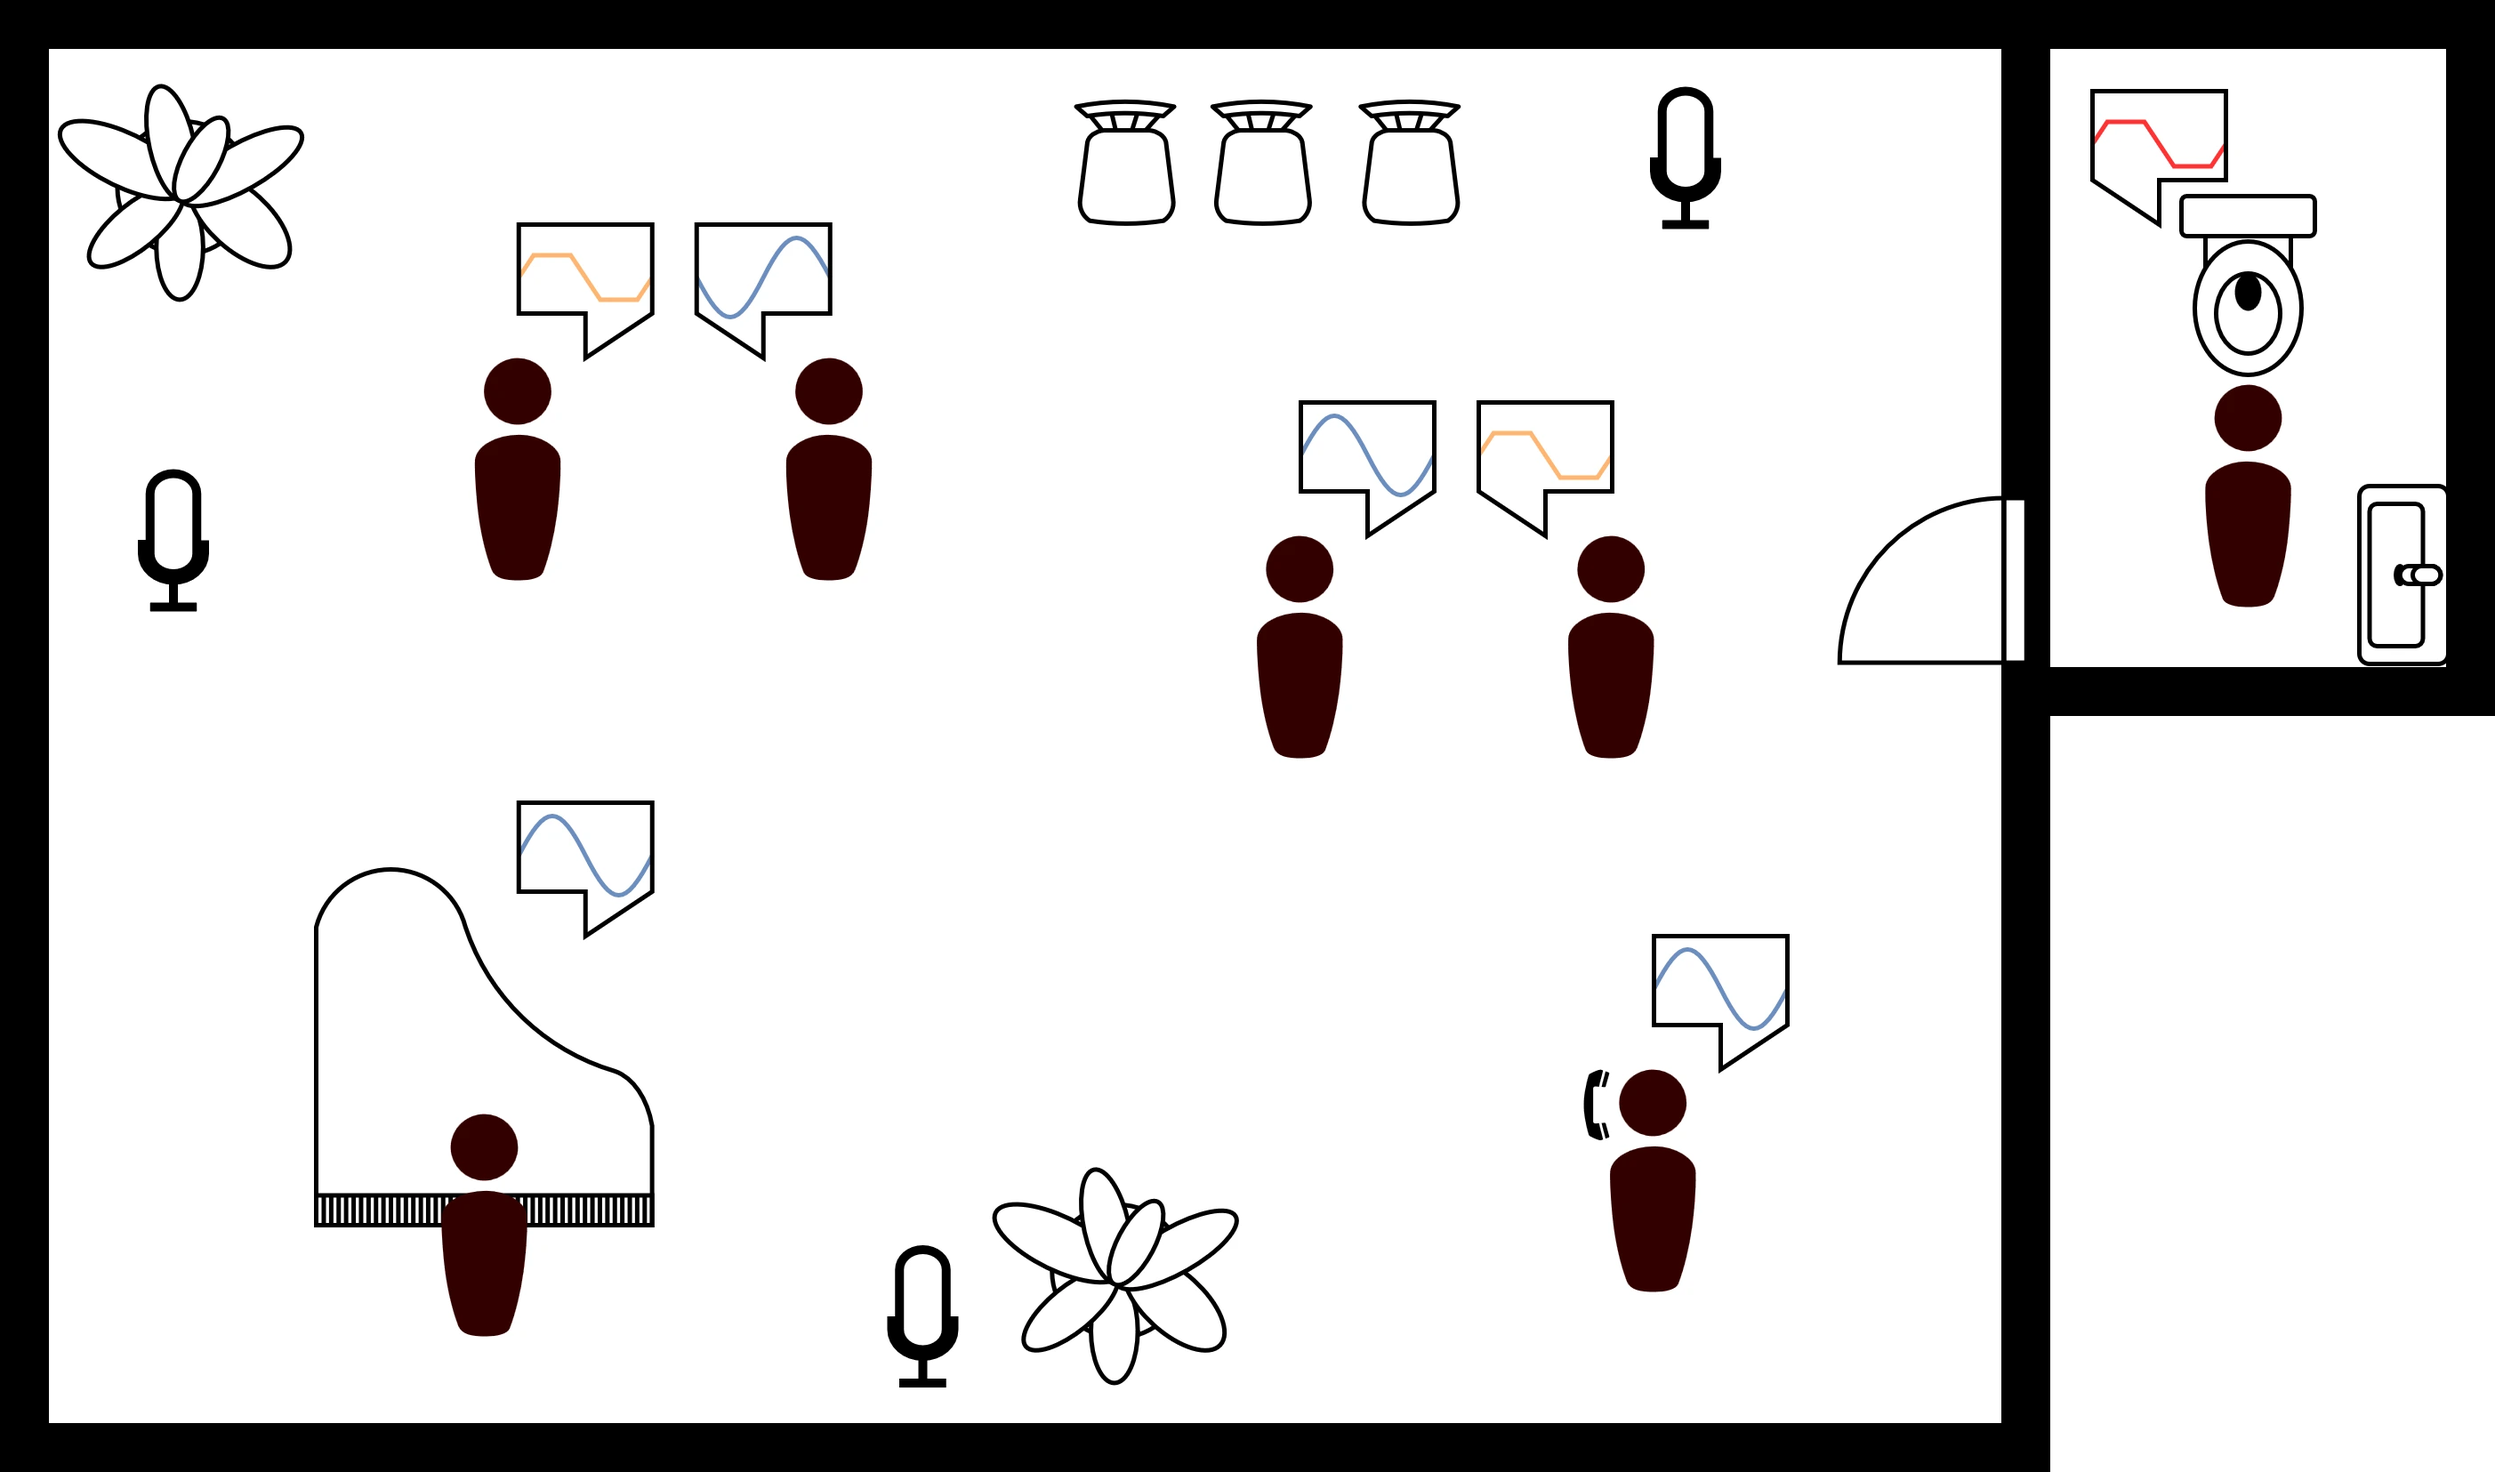
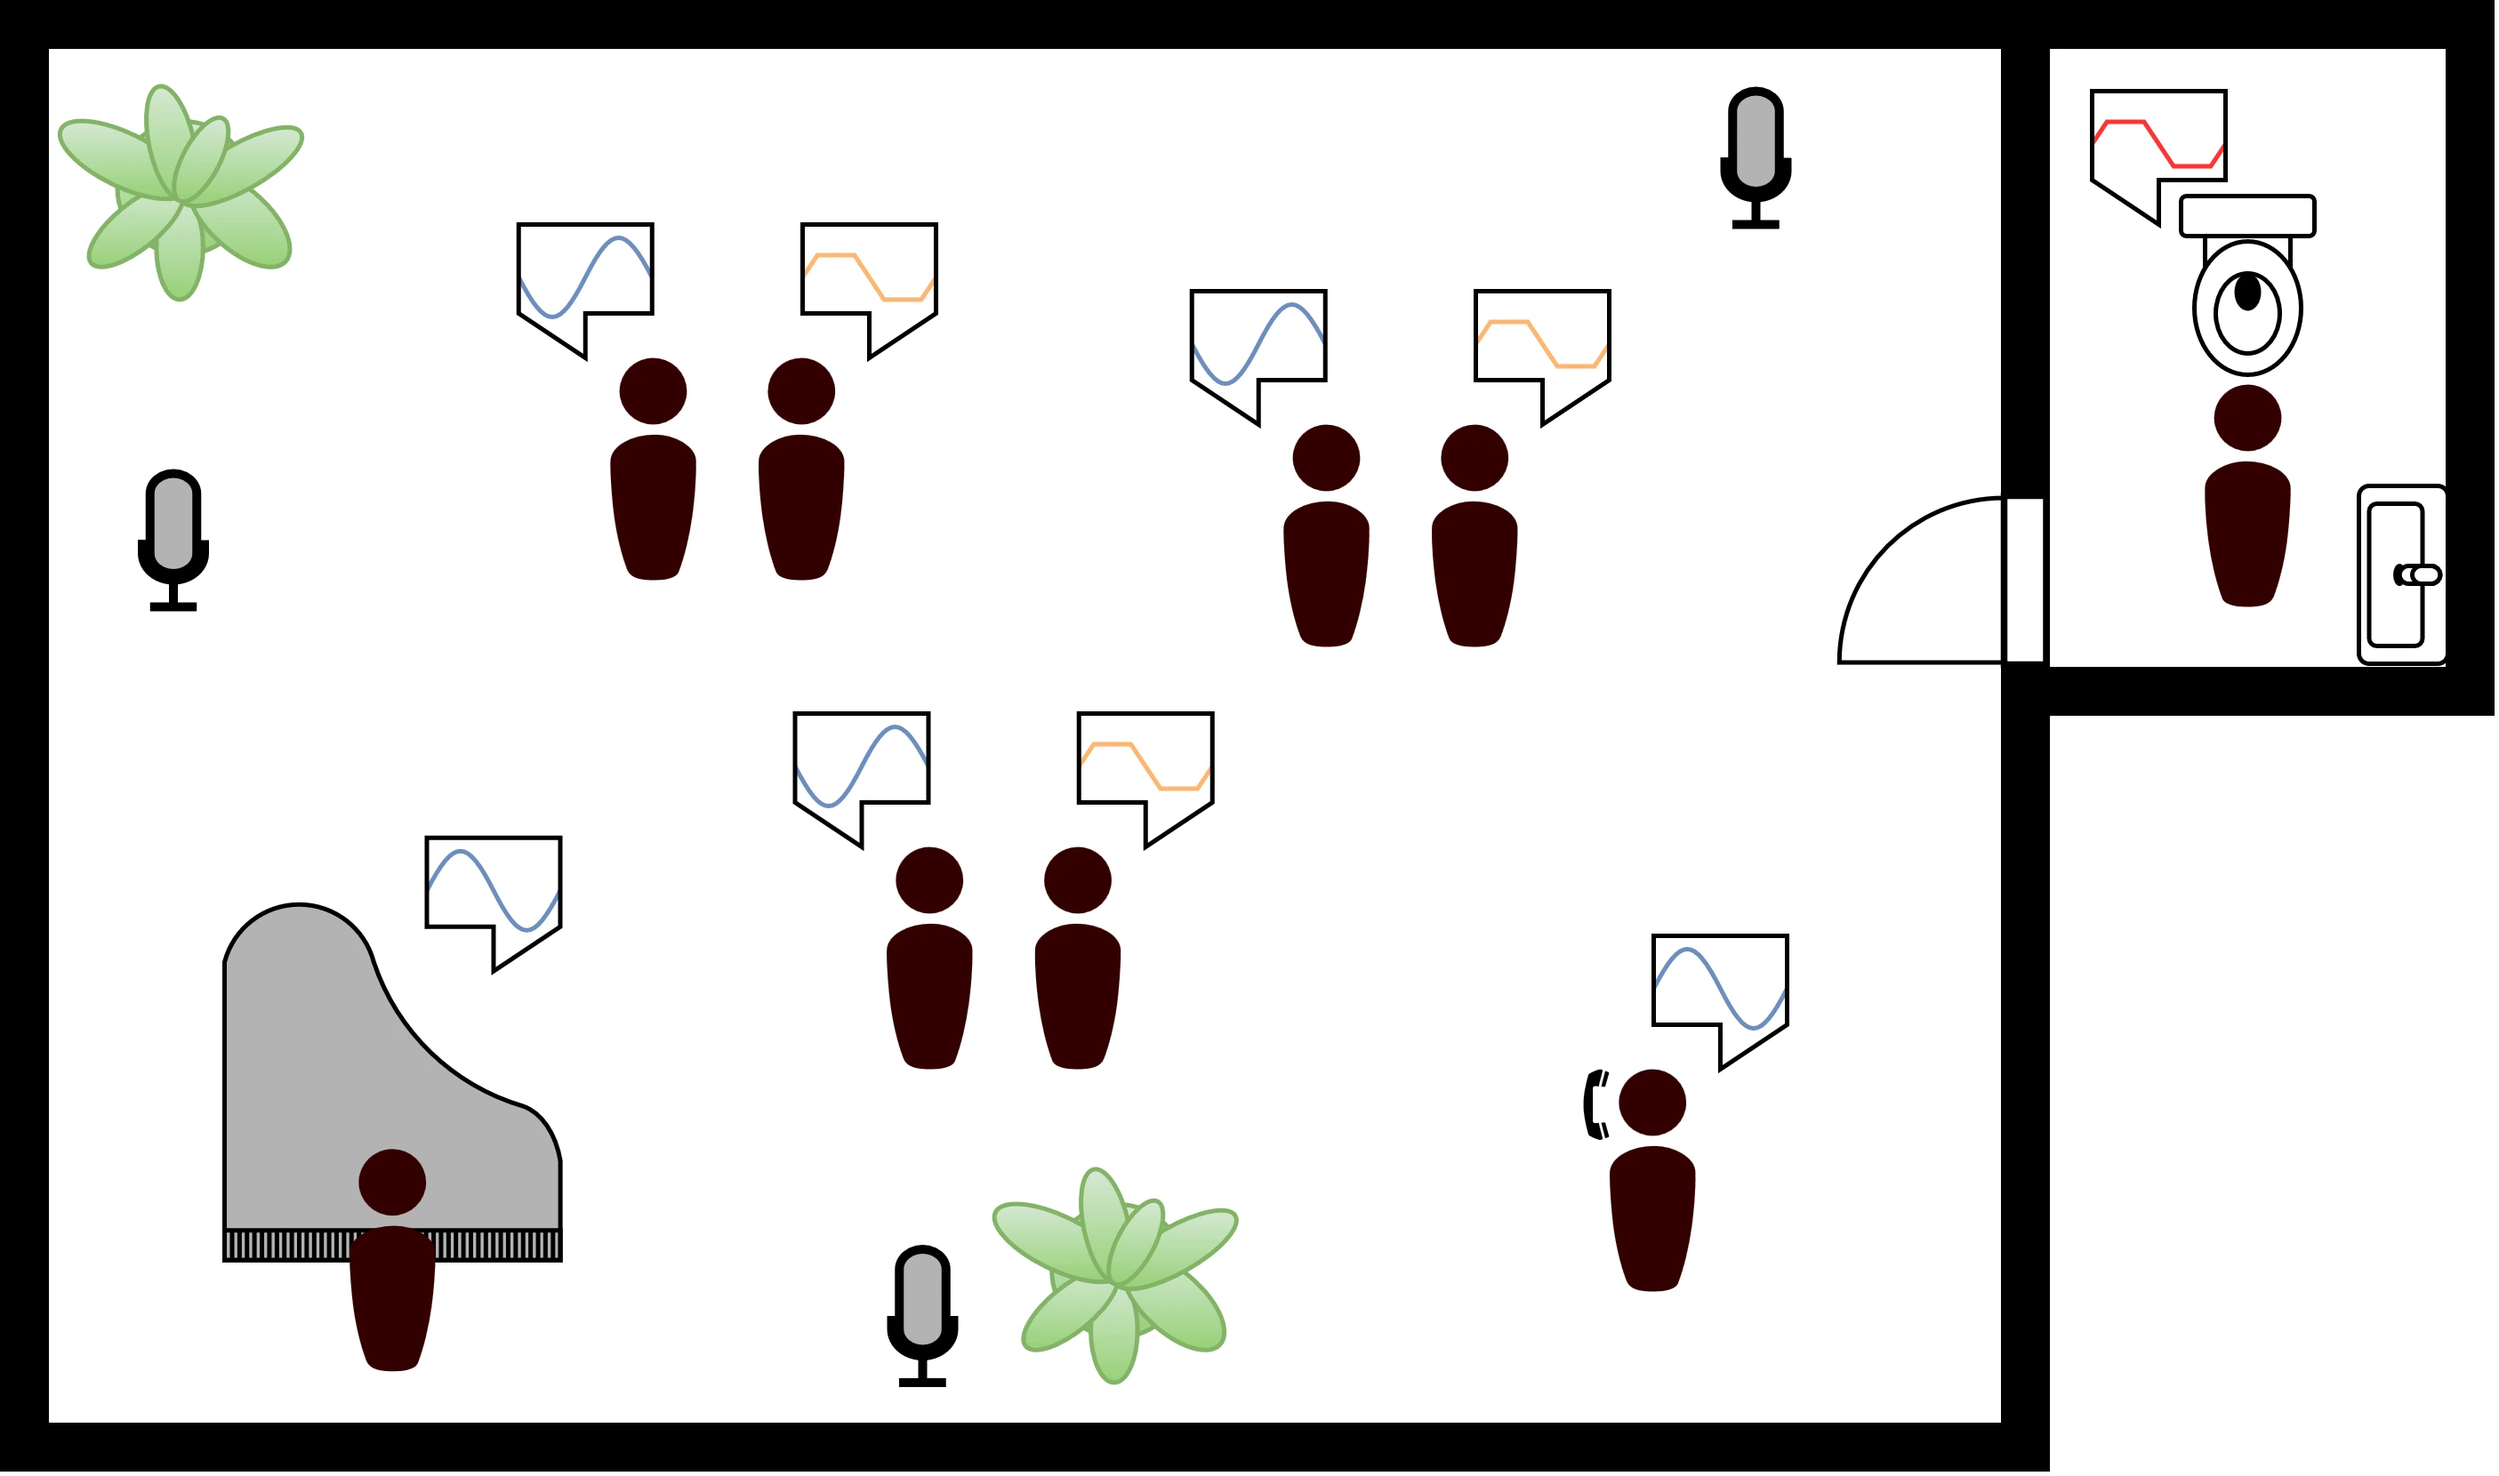
chore: improved cocktail party part

diff --git a/_posts/2025-09-22-ica.md b/_posts/2025-09-22-ica.md
@@ -34,15 +34,31 @@ This is the case in with **independent component analysis (ICA)** shines.
     ICA and PCA applied to a synthetic dataset. Adapted from the <a href="https://scikit-learn.org/stable/auto_examples/decomposition/plot_ica_vs_pca.html#sphx-glr-auto-examples-decomposition-plot-ica-vs-pca-py">scikit-learn documentation</a>.
 </div>
 
+# The cocktail party problem
+
+The ICA is the paradigmatic solution to the cocktail party problem, a famous problem in signal processing. And also, probably, in the Cold War.
+
+{% include figure.liquid loading="eager" path="assets/img/posts/2025-09-22-ica/cocktail_party.webp" class="img-fluid" %}
+
+The problem reads as follows. A spy wants to snoop on all the conversations happening in a cocktail party. To that end, they strategically place multiple microphones across the room. However, the party is quite busy: many conversations are ongoing, a piano plays in the background, people gulp, waiters trot, glasses clink. Each microphone only captures a mixture of all these signals, which results in mostly incomprehensible gibberish. The spy, thoroughly motivated to separate each of the signals into its individual components, invents ICA.
+
+More formally, each independent component $$j$$ (e.g., the piano playing) is a vector indexed by time ($$s_j(t)$$). Then, each microphone captures a linear combination of all the signals:
+
+$$
+x_i(t) = \sum_j a_ij s_j(t)
+$$
+
+where $$a_ij$$ is a constant, representing the relative contribution of each component. For instance, it will be low for components happening far from the microphone. We can arrange the vectors coming from the different microphones into a matrix:
+
+$$
+X = AS
+$$
+
+where $$A$$ is the mixing matrix and $$S$$ the independent component matrix. The goal is to estimate both $$A$$ and $$S$$ from $$X$$.
+
 # Background
 
 By design, PCA seeks an uncorrelated basis, since the axes of the ellipsoid need to be orthogonal. ICA goes one step further: it seeks a **statistically independent** basis.
-
-{% details The cocktail party problem %}
-
-The cocktail party problem is a well-known problem in signal processing, and the one ICA is supposed to solve best. In a cocktail many things are happening, and some spies try to get everything that's happening through microphones. Each microphone will get a mixture of all the signals. But they want to separate them. They use ICA for that. Equivalently, gene expression is a mixture of many individual sources.
-
-{% enddetails %}
 
 In ICA, we identify different non-gaussian tails of the distribution.
 
@@ -55,6 +71,8 @@ In ICA, we identify different non-gaussian tails of the distribution.
 3. ...
 
 We rank the independent components according to their consistency (apparently there is a random step?).
+
+# Case: gene expression analysis
 
 X is an approximation of the data.
 
